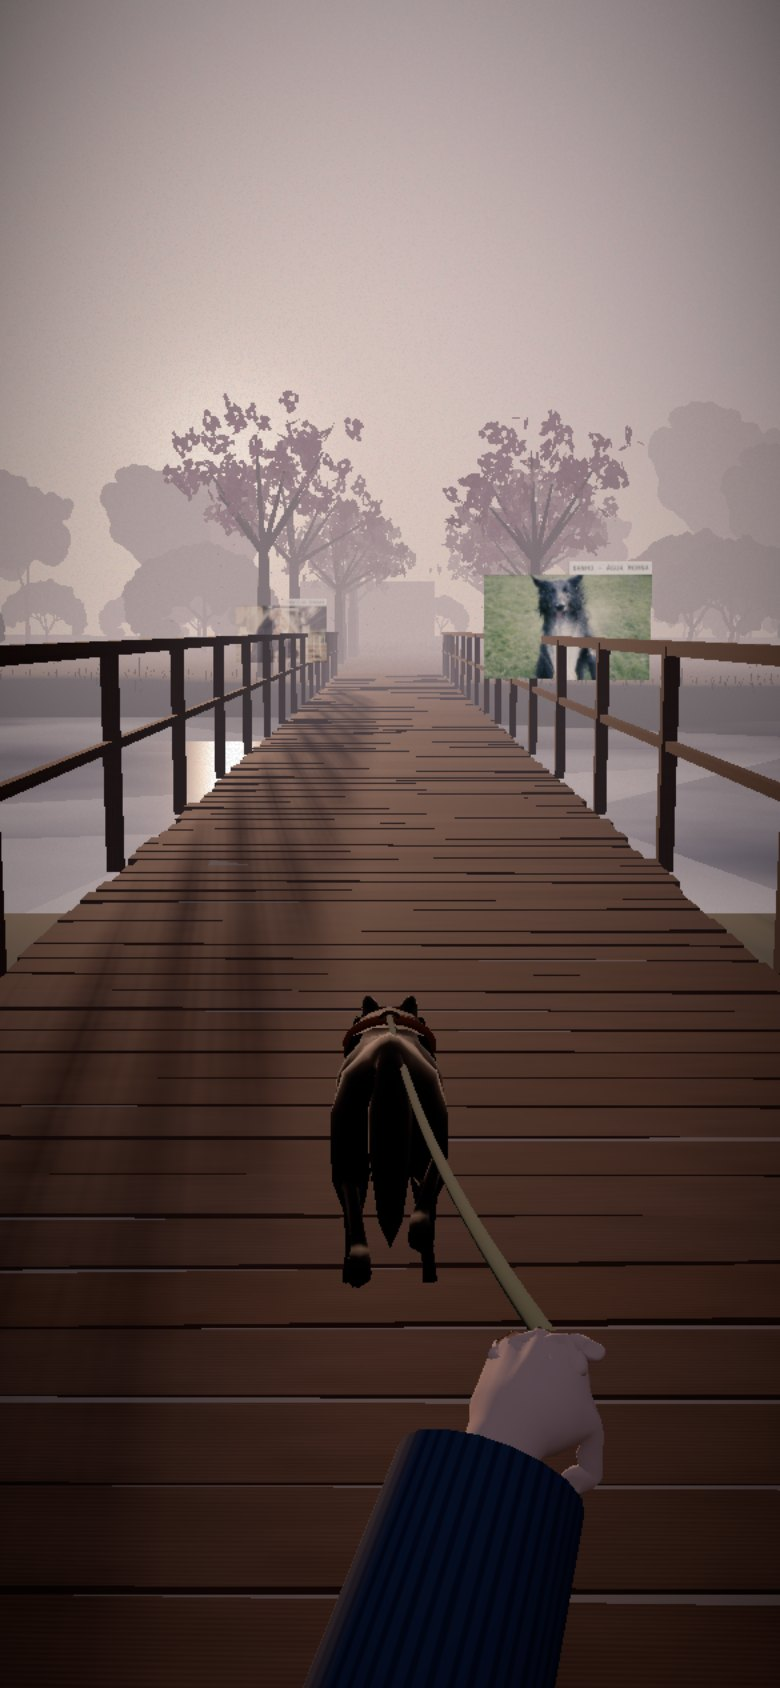
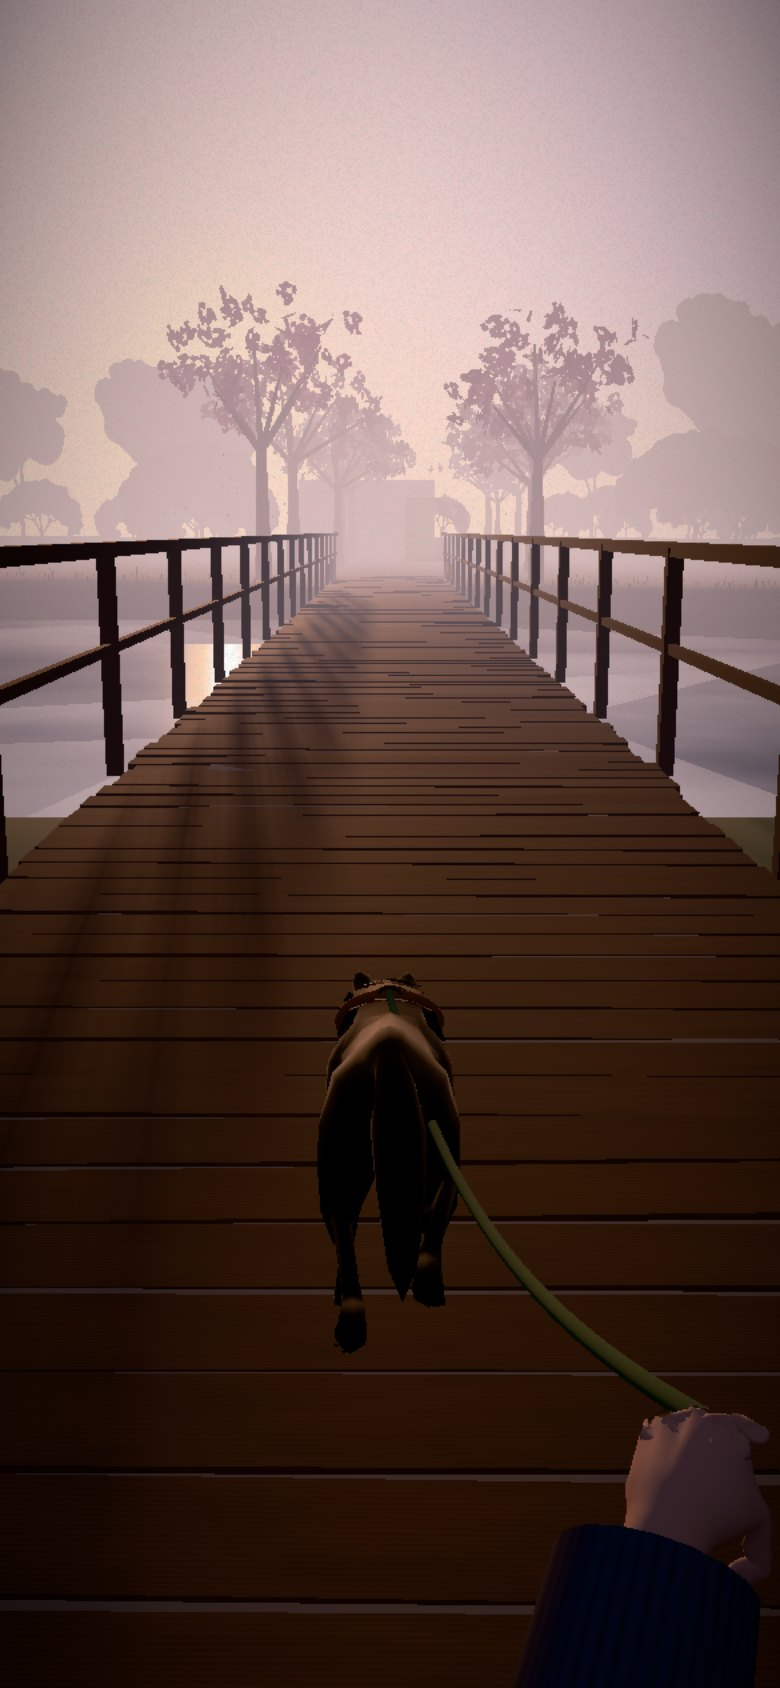
feat: rodada 3 do passeio (névoa, cards, enquadramento, saída suave)

diff --git a/src/components/passeio/Cena.tsx b/src/components/passeio/Cena.tsx
@@ -58,17 +58,17 @@ function Rig({
     // nos últimos metros o olhar sobe para mostrar a fachada e o letreiro
     const chegada = THREE.MathUtils.smoothstep(s.current, FIM - 16, FIM);
     pontoEm(s.current + 9, v.alvo);
-    // ~9° para baixo: horizonte no terço de cima, a cachorra inteira no terço de baixo
-    camera.lookAt(v.alvo.x, THREE.MathUtils.lerp(-0.27, 1.25, chegada), v.alvo.z);
+    // ~13° para baixo: a cachorra ocupa a metade de baixo do quadro, como a proa na referência
+    camera.lookAt(v.alvo.x, THREE.MathUtils.lerp(-0.93, 1.9, chegada), v.alvo.z);
     // na chegada o quadro abre para caber a fachada inteira e a Ellie
     const cam = camera as THREE.PerspectiveCamera;
-    const fov = THREE.MathUtils.lerp(fovBase.current, fovBase.current + 11, chegada);
+    const fov = THREE.MathUtils.lerp(fovBase.current, fovBase.current + 14, chegada);
     if (Math.abs(cam.fov - fov) > 0.01) {
       cam.fov = fov;
       cam.updateProjectionMatrix();
     }
     // a névoa abre na chegada: a fachada aparece nítida
-    if (scene.fog instanceof THREE.FogExp2) scene.fog.density = THREE.MathUtils.lerp(0.02, 0.008, chegada);
+    if (scene.fog instanceof THREE.FogExp2) scene.fog.density = THREE.MathUtils.lerp(0.033, 0.009, chegada);
 
     // a cachorra
     const sc = s.current + DIANTEIRA;
@@ -124,7 +124,7 @@ function Efeitos({ foco, leve }: { foco: THREE.Vector3; leve: boolean }) {
   if (leve)
     return (
       <EffectComposer multisampling={0}>
-        <ToneMapping mode={ToneMappingMode.AGX} />
+        <ToneMapping mode={ToneMappingMode.NEUTRAL} />
         <primitive object={gradacao} />
         <Noise premultiply blendFunction={BlendFunction.SOFT_LIGHT} opacity={0.12} />
         <Vignette offset={0.25} darkness={0.6} />
@@ -132,9 +132,9 @@ function Efeitos({ foco, leve }: { foco: THREE.Vector3; leve: boolean }) {
     );
   return (
     <EffectComposer multisampling={0}>
-      <DepthOfField ref={dof} target={[0, 0.5, 0]} worldFocusRange={9} bokehScale={2.4} />
+      <DepthOfField ref={dof} target={[0, 0.5, 0]} worldFocusRange={6} bokehScale={4} />
       <Bloom mipmapBlur intensity={0.35} luminanceThreshold={0.8} luminanceSmoothing={0.25} />
-      <ToneMapping mode={ToneMappingMode.AGX} />
+      <ToneMapping mode={ToneMappingMode.NEUTRAL} />
       <primitive object={gradacao} />
       <Noise premultiply blendFunction={BlendFunction.SOFT_LIGHT} opacity={0.12} />
       <Vignette offset={0.22} darkness={0.62} />
@@ -180,7 +180,7 @@ export default function Cena({
         gl.domElement.addEventListener("webglcontextlost", () => aoPerder?.());
       }}
     >
-      <fogExp2 attach="fog" args={[COR_NEVOA, 0.021]} />
+      <fogExp2 attach="fog" args={[COR_NEVOA, 0.033]} />
       <hemisphereLight args={["#b9bbe2", "#5c5045", 1.15]} />
       <directionalLight
         ref={sol}
@@ -210,7 +210,7 @@ export default function Cena({
         <Grama quantidade={leve ? 14000 : 52000} />
         <NevoaRasteira camadas={leve ? 6 : 9} />
         <Loja />
-        <Cards />
+        <Cards leve={leve} />
         {/* ordem importa: câmera → animação da cachorra → mão → guia, tudo no mesmo quadro */}
         <Rig progresso={progresso} marcha={marcha} cachorra={cachorra} foco={foco} sol={sol} />
         <Cachorra ref={cachorra} marcha={marcha} ossos={ossos} />

diff --git a/src/components/passeio/Paisagem.tsx b/src/components/passeio/Paisagem.tsx
@@ -236,7 +236,7 @@ function InstanciasArvore({ geo, material, itens }: { geo: THREE.BufferGeometry;
 export function Grama({ quantidade = 52000 }: { quantidade?: number }) {
   const ref = useRef<THREE.InstancedMesh>(null);
   const material = useMemo(() => {
-    const m = new THREE.MeshStandardMaterial({ color: "#7d8f5c", roughness: 0.85, side: THREE.DoubleSide });
+    const m = new THREE.MeshStandardMaterial({ color: "#93a46b", roughness: 0.85, side: THREE.DoubleSide, emissive: "#3a4a2a", emissiveIntensity: 0.35 });
     m.onBeforeCompile = (sh) => {
       sh.uniforms.uTempo = tempoGrama;
       sh.vertexShader = sh.vertexShader
@@ -244,7 +244,7 @@ export function Grama({ quantidade = 52000 }: { quantidade?: number }) {
         .replace(
           "#include <begin_vertex>",
           `#include <begin_vertex>
-          vAlt = clamp(position.y / 0.22, 0.0, 1.0);
+          vAlt = clamp(position.y / 0.16, 0.0, 1.0);
           vec3 base = instanceMatrix[3].xyz;
           float vento = sin(uTempo * 1.4 + base.x * 0.35 + base.z * 0.22) + 0.4 * sin(uTempo * 2.7 + base.z * 0.9);
           transformed.x += vento * 0.035 * vAlt * vAlt;
@@ -252,14 +252,14 @@ export function Grama({ quantidade = 52000 }: { quantidade?: number }) {
         );
       sh.fragmentShader = sh.fragmentShader
         .replace("#include <common>", "#include <common>\nvarying float vAlt;")
-        .replace("#include <color_fragment>", "#include <color_fragment>\ndiffuseColor.rgb *= mix(0.35, 1.0, vAlt);");
+        .replace("#include <color_fragment>", "#include <color_fragment>\ndiffuseColor.rgb *= mix(0.62, 1.15, vAlt);");
     };
     return m;
   }, []);
   const geo = useMemo(() => {
-    const g = new THREE.PlaneGeometry(0.03, 0.22, 1, 3).translate(0, 0.11, 0);
+    const g = new THREE.PlaneGeometry(0.035, 0.16, 1, 3).translate(0, 0.08, 0);
     const p = g.attributes.position;
-    for (let i = 0; i < p.count; i++) p.setX(i, p.getX(i) * (1 - p.getY(i) / 0.24));
+    for (let i = 0; i < p.count; i++) p.setX(i, p.getX(i) * (1 - p.getY(i) / 0.18));
     return g;
   }, []);
   useLayoutEffect(() => {
@@ -267,14 +267,14 @@ export function Grama({ quantidade = 52000 }: { quantidade?: number }) {
     let i = 0, tent = 0;
     while (i < quantidade && tent++ < quantidade * 6) {
       // concentra a grama no gramado (fim do passeio) e nas bordas do começo
-      const s = r() < 0.8 ? 72 + r() * 46 : r() * 34;
+      const s = r() < 0.8 ? 72 + r() * 40 : r() * 34; // nada de grama na praça da loja
       const lado = (r() < 0.5 ? -1 : 1) * (0.9 + Math.pow(r(), 2.2) * 10);
       const p = aoLado(s, lado);
       if (s < 34 && Math.abs(lado) < 3) continue; // nada de grama sobre a ponte
       const y = alturaTerreno(p.x, p.z);
       if (y < -0.25) continue;
       e.set((r() - 0.5) * 0.5, r() * 6.28, (r() - 0.5) * 0.5);
-      const tufo = r() < 0.1 ? 2.3 : 1; // grama baixa de parque, com alguns tufos mais altos
+      const tufo = r() < 0.06 ? 1.8 : 1; // tapete de grama baixa de parque, poucos tufos
       m.compose(new THREE.Vector3(p.x, y, p.z), q.setFromEuler(e), new THREE.Vector3(1.2, (0.6 + r() * 0.8) * tufo, 1.2));
       ref.current!.setMatrixAt(i, m);
       ref.current!.setColorAt(i, cor.setHSL(0.2 + r() * 0.07, 0.42 + r() * 0.16, 0.26 + r() * 0.1));

diff --git a/src/components/passeio/Passeio.tsx b/src/components/passeio/Passeio.tsx
@@ -82,7 +82,7 @@ export function Passeio() {
       const s = p * FIM;
       setAtiva(frases.reduce((i, f, k) => (s >= f.s ? k : i), 0));
       setFase(p < 0.03 ? "hero" : p > 0.86 ? "chegada" : "passeio");
-      el.style.setProperty("--saida", String(Math.min(1, Math.max(0, (p - 0.975) / 0.025))));
+      el.style.setProperty("--saida", String(Math.min(1, Math.max(0, (p - 0.93) / 0.055))));
     };
     const aoRolar = () => (raf ||= requestAnimationFrame(ler));
     ler();
@@ -144,7 +144,7 @@ export function Passeio() {
         {/* frases: só a do trecho atual em destaque */}
         <ol
           aria-label="O que a Íris faz pelo caminho"
-          className={`pointer-events-none absolute inset-x-0 top-[13svh] px-5 text-center font-serifa text-frase font-light transition-opacity duration-700 md:top-[7svh] ${fase === "passeio" ? "opacity-100" : "opacity-0"}`}
+          className={`pointer-events-none absolute inset-x-0 top-[12svh] px-5 text-center font-serifa text-frase font-light transition-opacity duration-700 max-md:text-[1.05rem] md:top-[7svh] ${fase === "passeio" ? "opacity-100" : "opacity-0"}`}
         >
           {frases.map((f, i) => (
             <li key={f.texto} aria-current={i === ativa ? "step" : undefined} className={`transition-opacity duration-500 ${i === ativa ? "opacity-100" : "opacity-40"}`}>
@@ -164,8 +164,12 @@ export function Passeio() {
           </div>
         </div>
 
-        {/* a cena entra na névoa clara e vira o creme da próxima seção */}
-        <div aria-hidden className="pointer-events-none absolute inset-0 bg-creme opacity-(--saida)" />
+        {/* a névoa clara sobe do chão, engole a cena e vira o creme da próxima seção */}
+        <div
+          aria-hidden
+          style={{ background: "linear-gradient(to top, #fbf6ee calc(var(--saida, 0) * 100%), rgb(251 246 238 / 0) calc(var(--saida, 0) * 100% + 38%))" }}
+          className="pointer-events-none absolute inset-0 opacity-[min(1,calc(var(--saida,0)*5))]"
+        />
 
         <p className="sr-only">
           Pelo caminho aparecem os serviços e produtos da Íris: banho, tosa, spa, rações, petiscos, brinquedos, camas, coleiras e

diff --git a/src/components/passeio/caminho.ts b/src/components/passeio/caminho.ts
@@ -18,8 +18,8 @@ export const caminho = new THREE.CatmullRomCurve3(
 export const COMPRIMENTO = caminho.getLength();
 export const PORTA_Z = -127; // fachada da loja
 
-// a câmera para ~10 m antes da porta (a fachada inteira no quadro); a cachorra anda 2,2 m à frente dela
-export const DIANTEIRA = 2.2;
+// a câmera para ~10 m antes da porta (a fachada inteira no quadro); a cachorra anda 1,8 m à frente dela
+export const DIANTEIRA = 1.8;
 export const FIM = COMPRIMENTO - 6.5 - DIANTEIRA;
 
 export const pontoEm = (s: number, alvo = new THREE.Vector3()) =>
@@ -40,8 +40,8 @@ export const frases = [
 
 /** Cards de serviços e produtos pelo caminho: posição em metros, lado e altura. */
 export const posicoesCards = [
-  { s: 12, lado: 1, y: 1.25 }, // banho
-  { s: 22, lado: -1, y: 1.15 }, // tosa
+  { s: 20, lado: 1, y: 1.25 }, // banho
+  { s: 29, lado: -1, y: 1.15 }, // tosa
   { s: 38, lado: 1, y: 1.3 }, // spa
   { s: 48, lado: -1, y: 1.2 }, // rações
   { s: 58, lado: 1, y: 1.25 }, // petiscos
@@ -61,4 +61,4 @@ export type AjusteMao = {
   sinal?: number;
 };
 export const MAO_PADRAO: AjusteMao = { alvo: [0.14, -0.2, -0.5], inclina: 1.3, giro: -1.0, rola: 0, eixo: "z", sinal: 1 }; // dorso da mão para a câmera, dedos fechados na guia
-export const MAO_CELULAR: AjusteMao = { ...MAO_PADRAO, alvo: [0.05, -0.3, -0.66] };
+export const MAO_CELULAR: AjusteMao = { ...MAO_PADRAO, alvo: [0.12, -0.32, -0.62] }; // entra pela direita, não pelo meio

diff --git a/src/components/passeio/Cards.tsx b/src/components/passeio/Cards.tsx
@@ -40,15 +40,16 @@ function desenharCard(foto: HTMLImageElement, rotulo: string, mono: string) {
 }
 
 /** Cards das fotos dos serviços: sempre de frente para quem passeia, passando perto, um de cada lado. */
-export function Cards() {
+export function Cards({ leve = false }: { leve?: boolean }) {
   const itens = useMemo(
     () =>
       posicoesCards.map((p, i) => {
-        const pos = aoLado(p.s, p.lado * (1.55 + (i % 2) * 0.2));
+        // na ponte os cards ficam por dentro do corrimão; no celular, um card por trecho
+        const pos = aoLado(p.s, p.lado * (p.s < 34 ? 0.95 : 1.55 + (i % 2) * 0.2));
         pos.y = p.y;
         return { pos, card: cards[i], fase: i * 1.7 };
-      }),
-    [],
+      }).filter((_, i) => !leve || i % 2 === 0),
+    [leve],
   );
   const materiais = useMemo(
     () => itens.map(() => new THREE.MeshBasicMaterial({ transparent: true, alphaTest: 0.02, toneMapped: false, fog: false })),
@@ -84,7 +85,7 @@ export function Cards() {
       c.rotation.y = Math.atan2(camera.position.x - c.position.x, camera.position.z - c.position.z);
       // longe, o card se dissolve na névoa (ele ignora a névoa da cena para ficar nítido quando perto)
       const d = camera.position.distanceTo(c.position);
-      materiais[i].opacity = 1 - THREE.MathUtils.smoothstep(d, 14, 34);
+      materiais[i].opacity = 1 - THREE.MathUtils.smoothstep(d, 10, 22);
     });
   });
 

diff --git a/src/app/page.tsx b/src/app/page.tsx
@@ -5,13 +5,13 @@ import { Logo } from "@/components/ui";
 export default function Home() {
   return (
     <main>
-      <Link href="/" aria-label="Íris Pet Spa, início" className="fixed top-6 left-6 z-20 text-tinta md:top-7 md:left-8">
+      <Link href="/" aria-label="Íris Pet Spa, início" className="fixed top-6 left-6 z-20 text-tinta [text-shadow:0_0_16px_rgb(240_230_234/0.9)] md:top-7 md:left-8">
         <Logo />
       </Link>
       <Passeio />
       {/* próxima seção (Fase 3): o passeio desemboca no creme */}
-      <section data-tema="creme" aria-labelledby="titulo-banho" className="flex min-h-svh items-start justify-center bg-[linear-gradient(#fbf6ee_45%,rgb(251_246_238/0))] px-5 pt-[12svh] text-center">
-        <h2 id="titulo-banho" className="text-display max-md:text-[2.75rem]">
+      <section data-tema="creme" aria-labelledby="titulo-banho" className="relative z-10 -mt-[40svh] flex min-h-svh items-start justify-center bg-[linear-gradient(rgb(251_246_238/0),#fbf6ee_22%,#fbf6ee_50%,rgb(251_246_238/0))] px-5 pt-[30svh] text-center max-md:justify-start max-md:text-left">
+        <h2 id="titulo-banho" className="text-display max-md:text-[1.85rem] max-md:leading-[1.05]">
           Banho em minutos.
           <br />
           Tosa sob medida.

diff --git a/scripts/gradear.py b/scripts/gradear.py
@@ -18,7 +18,7 @@ GRUPOS = {
     # prefixo: (pasta, lado maior, luminância média alvo, saturação, força do tom, piso dos pretos)
     "passeio-": ("passeio", 2560, 0.50, 0.64, 0.40, 0.04),
     "alt-": ("passeio", 2560, 0.50, 0.64, 0.40, 0.04),
-    "card-": ("cards", 1400, 0.55, 0.75, 0.25, 0.03),
+    "card-": ("cards", 1400, 0.52, 0.92, 0.12, 0.015),  # leve: preserva o contraste da foto
 }
 
 def luminancia(img):
